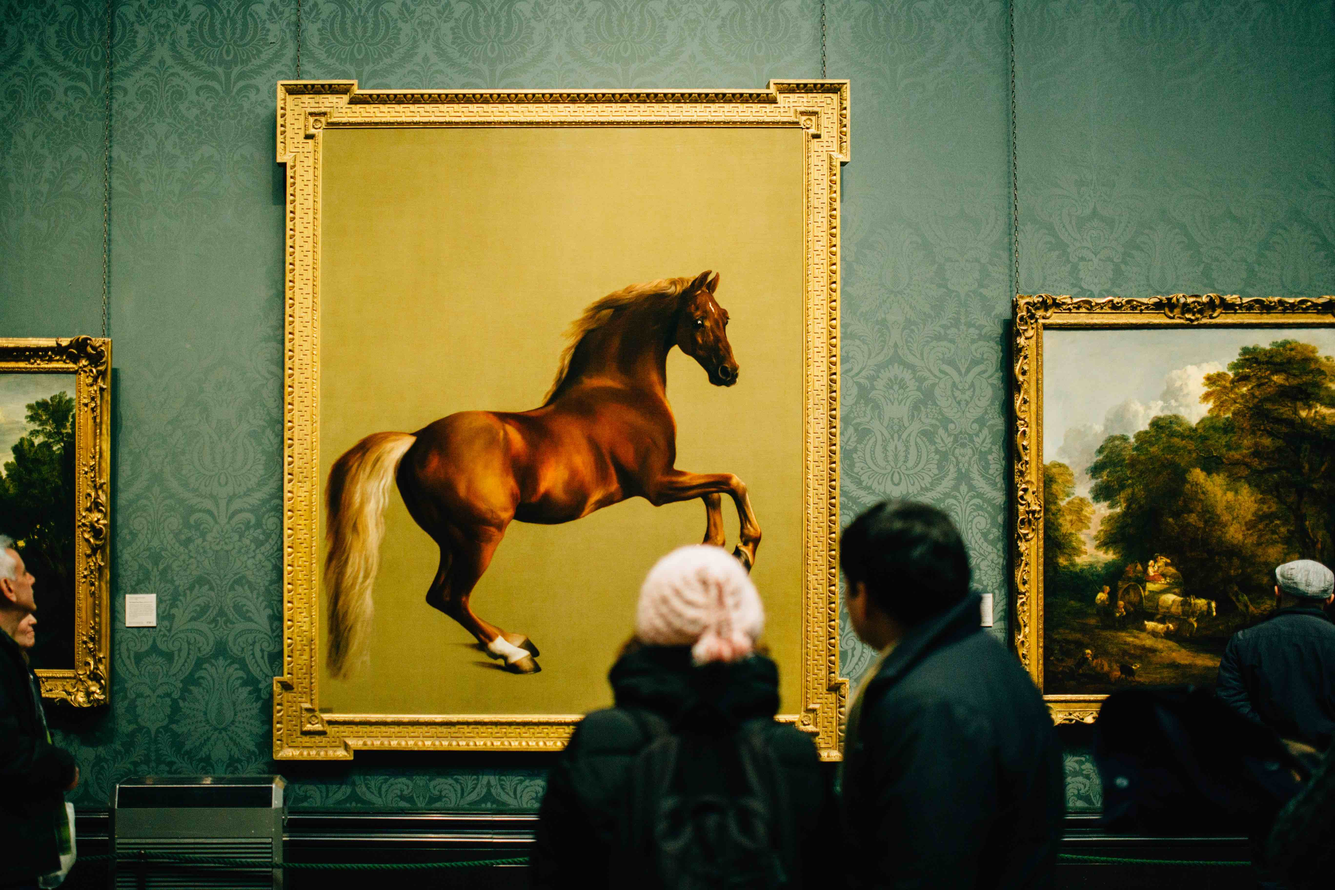
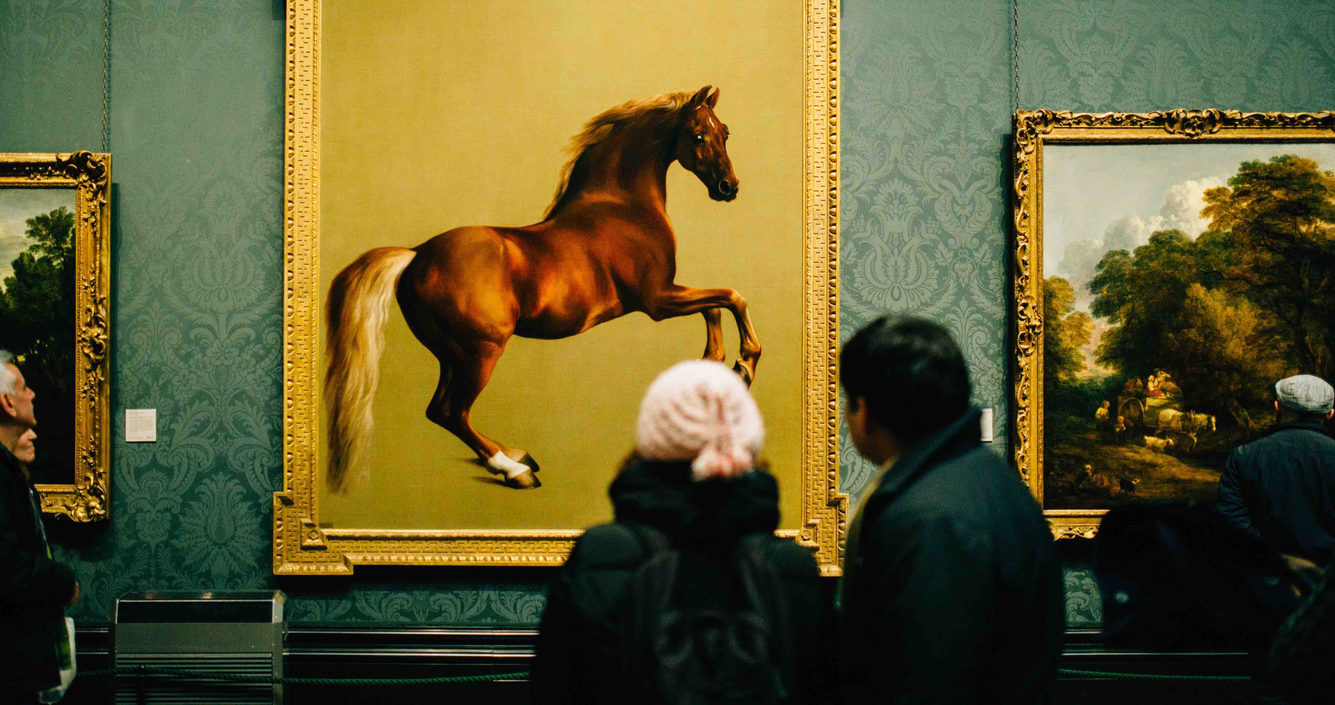
resized pictures reduced size; meaningless line in style deleted;

diff --git a/app/assets/stylesheets/style.css b/app/assets/stylesheets/style.css
@@ -137,7 +137,6 @@
     background-attachment: fixed;
     background-repeat: no-repeat;
     background-size: cover;
-    background-position: 50% 150%;
 }
 /* parallax ends */
 
